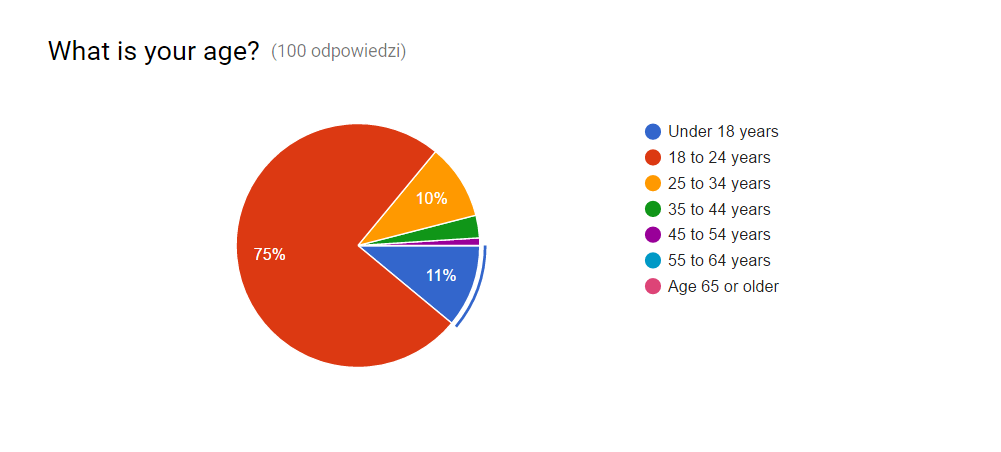
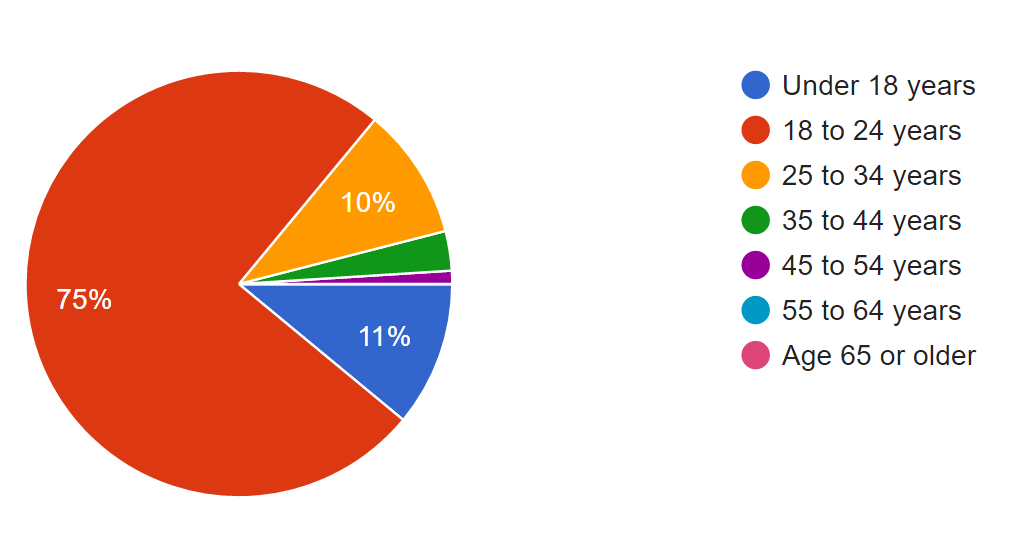
add

Changed region(s): [[0.0, 0.0929, 0.4955, 0.9292], [0.6194, 0.2168, 0.96, 0.6814], [0.7123, 0.1239, 0.96, 0.1858]]

diff --git a/index.html b/index.html
@@ -41,6 +41,9 @@
 			<div class="slides">
 				<section>
 					<h1>Survey Summary</h1>
+					<aside class="notes">
+						The survey includes 26 questions that can be divided into five parts
+					</aside>
 				</section>
 
 				<section>
@@ -49,44 +52,43 @@
 					</section>
 
 					<section style="font-size:45px">
-						<h3>Gender</h3>
-						<img src=gender.png>
+						<h3>What is your gender?</h3>
+						<img style="border: 0;" src=gender.png>
 						<aside class="notes"> The total number of respondents was one hundred people,
 							of which 82% were women. </aside>
 					</section>
 
 					<section style="font-size:45px">
-						<h3>Age</h3>
-						<img src=age.png>
+						<h3>What is your age?</h3>
+						<img style="border: 0;" src=age.png>
 						<aside class="notes">The age of the majority of the participants
 							ranged from 18 to 24 years (75%).</aside>
 					</section>
 
 					<section style="font-size:45px">
-						<h3>Education level</h3>
-						<img src=education.png>
+						<h3>What is your education level?</h3>
+						<img style="border: 0;" src=education.png>
 						<aside class="notes"> Half of the participants has upper secondary education,
 							and more than one third has post-secondary education</aside>
 					</section>
 
 					<section style="font-size:45px">
-						<h3>Type of settlement</h3>
-						<img src=settlement.png>
+						<h3>What type of settlement do you live in?</h3>
+						<img style="border: 0;" src=settlement.png>
 						<aside class="notes"> The vast majority(93%) of the participants lives in town
 							or settlement bigger than town.</aside>
 					</section>
 
 					<section style="font-size:45px">
-						<h3>Country</h3>
-						<img src=country.png>
+						<h3>Where are you from? (Country)</h3>
+						<img style="border: 0;" src=country.png>
 						<aside class="notes"> 91% of the participants are from Poland,
-							8% are from Ukraine and 1% is from Germany.</aside>
+							8% are from Ukraine and 1% is from Germany.
+							A good sample is one that is representative of the population as a whole.
+							Our sample is not that good because some members of the population
+							(like men or people living in villages) are underrepresented in our sample. </aside>
 					</section>
 
-					<section style="font-size:45px">
-						<h3>Area of work</h3>
-						<img src=Area.png>
-					</section>
 				</section>
 
 				<section>
@@ -95,13 +97,15 @@
 					</section>
 
 					<section style="font-size:45px">
-						<img src=internetuse.png>
+						<h3>How often do you use the Internet?</h3>
+						<img style="border: 0;" src=internetuse.png>
 						<aside class="notes">Almost all respondents (98%) use internet often or very often which
 						isn't very surprising taking into account age of our respondents</aside>
 					</section>
 
 					<section style="font-size:45px">
-						<img src=usingfor.png>
+						<h3>What are you using the Internet for?</h3>
+						<img style="border: 0;" src=usingfor.png>
 						<aside class="notes">More than 90% of the respondents uses Internet for
 							social network, email, entertainment and sites with information.
 							A little smaller part of respondents (> 60%) uses internet for shopping,
@@ -110,19 +114,14 @@
 					</section>
 
 					<section style="font-size:45px">
-						<img src=Screenshot_1.png>
-						<aside class="notes">Smart TVs and smart watches aren't really cheap,
-							so what you can see on this diagram isn't surprising.</aside>
+						<h3>Where do you use the Internet?</h3>
+						<img style="border: 0;" src=where.png>
 					</section>
 
 					<section style="font-size:45px">
-						<img src=where.png>
-						<aside class="notes">It's really connected with previous diagram. Computer without internet is useless
-						so...</aside>
-					</section>
-
-					<section style="font-size:45px">
-						<img src=when.png>
+						<h3>When do you use the Internet?</h3>
+						<img style="border: 0;" src=when.png>
+						<aside class="notes"></aside>
 					</section>
 				</section>
 
@@ -132,32 +131,38 @@
 					</section>
 
 					<section style="font-size:45px">
-						<img src=howEmail.png>
+						<h3>How anxious do you feel about using Email?</h3>
+						<img style="border: 0;" src=howEmail.png>
 						<aside class="notes">In general people doesn't feel anxious about using email</aside>
 					</section>
 
 					<section style="font-size:45px">
-						<img src=howSocia.png>
+						<h3>How anxious do you feel about using social networks?</h3>
+						<img style="border: 0;" src=howSocia.png>
 					</section>
 
 					<section style="font-size:45px">
-						<img src=onlineshopping.png>
+						<h3>How anxious do you feel about using online shopping?</h3>
+						<img style="border: 0;" src=onlineshopping.png>
 						<aside class="notes">The majority of the respondents don’t feel anxious
 							about using social networks, email or online shopping. </aside>
 					</section>
 
 					<section style="font-size:45px">
-						<img src=realname.png>
+						<h3>How anxious do you feel about using/posting with your real name?</h3>
+						<img style="border: 0;" src=realname.png>
 					</section>
 
 					<section style="font-size:45px">
-						<img src=controversial.png>
+						<h3>How anxious do you feel about using/posting something that can be controversial?</h3>
+						<img style="border: 0;" src=controversial.png>
 						<aside class="notes">However, almost 20% of the respondents feel very anxious about posting
 							something with their real name or posting something that can be controversial. </aside>
 					</section>
 
 					<section style="font-size:45px">
-						<img src=recorded.png>
+						<h3>Do you feel/think that your Internet activity is being recorded/observed?</h3>
+						<img style="border: 0;" src=recorded.png>
 					</section>
 				</section>
 
@@ -167,27 +172,27 @@
 					</section>
 
 					<section style="font-size:45px">
-						<img src=useRealName.png>
+						<h3>Do you use your real name in the Internet?</h3>
+						<img style="border: 0;" src=useRealName.png>
 					</section>
 
 					<section style="font-size:45px">
-						<img src=useRealPicture.png>
+						<h3>Do you use your real picture in the Internet?</h3>
+						<img style="border: 0;" src=useRealPicture.png>
 						<aside class="notes"> More than a half of the respondents use real name and real picture
 							in the Internet and feel like a part of internet communities.</aside>
 					</section>
 
 					<section style="font-size:45px">
-						<img src=fale.png>
+						<h3>Do you have any fake accounts on websites?</h3>
+						<img style="border: 0;" src=fale.png>
 					</section>
 
 					<section style="font-size:45px">
-						<img src=partOfInternet.png>
+						<h3>How much do you tell about your personal data to people met in the Internet?</h3>
+						<img style="border: 0;" src=personalData.png>
 					</section>
 
-					<section style="font-size:45px">
-						<img src=personalData.png>
-					</section>
-					
 				</section>
 
 				<section>
@@ -196,26 +201,78 @@
 					</section>
 
 					<section style="font-size:45px">
-						<img src=safe.png>
+						<h3>Do you feel safe in the Internet?</h3>
+						<img style="border: 0;" src=safe.png>
 						<aside class="notes">More than 60% of the respondents doesn’t feel safe in the Internet.</aside>
 					</section>
 
 					<section style="font-size:45px">
-						<img src=clean.png>
+						<h3>Do you clean browser history when you use the Internet in public places (for example at a university)?</h3>
+						<img style="border: 0;" src=clean.png>
 					</section>
 
 					<section style="font-size:45px">
-						<img src=add.png>
+						<h3>Do you use any ad blocker?</h3>
+						<img style="border: 0;" src=add.png>
 					</section>
 
 					<section style="font-size:45px">
-						<img src=anoughtofeel.png>
+						<h3>Do you think you know enough about the Internet to feel secure?</h3>
+						<img style="border: 0;" src=anoughtofeel.png>
 					</section>
 
 					<section style="font-size:45px">
-						<img src=changePass.png>
+						<h3>How often do you change your password?</h3>
+						<img style="border: 0;" src=changePass.png>
 					</section>
 				</section>
+				<section>
+					<section>
+						<h1>Conclusions</h1>
+					</section>
+					<section>
+						<h2 style="font-size: 100px">The Internet has become an integral part of everyday life</h2>
+					</section>
+					<section>
+						<h2 style="font-size: 100px">People don't share personal information freely.</h2>
+					</section>
+					<section>
+						<h2 style="font-size: 100px">People don't think that they know enough about the Internet.</h2>
+					</section>
+				</section>
+				<section>
+					<section>
+						<h1>Q&A</h1>
+					</section>
+					<section>
+						<h2 style="font-size: 100px">Do you think that there are insignificant(or unclear) questions in our survey?</h2>
+					</section>
+					<section>
+						<h2 style="font-size: 100px">Why do you think more than one third of the respondents doesn't feel safe in the Internet,
+							but only 18% change password once a month?</h2>
+					</section>
+					<section>
+						<h2 style="font-size: 100px">What do you think about 5 point Likert-scale used in our survey? Is 5 points enough for this type of questions?</h2>
+					</section>
+					<section>
+						<h2 style="font-size: 100px">What can convince you to turn off adblocker on some pages?</h2>
+					</section>
+				</section>
+				<section>
+					<h2>References</h2>
+					<ul style="font-size: 35px">
+						<li>Joiner, R., Gavin, J., Brosnan, M., Cromby, J., Gregory, H., Guiller, J., Maras, P.
+							and Moon, A.(2013).<br>
+							Comparing First and Second Generation Digital Natives’ Internet Use,
+							Internet Anxiety,<br> and Internet Identification. Cyberpsychology, Behavior,
+							and Social Networking.<br>
+							Retrieved from <a href="https://www.researchgate.net/publication/236910772_Co..'_Internet_Use_Internet_Anxiety_and_Internet_Identification">here</a>.</li>
+						<li>Olejniczak, K., Kuzhel, O., Kubicki, D. (Interviewers) and
+							Citizens of Krakow (Interviewee). (2016). Survey [Survey transcript].<br>
+							Retrieved from google survey <a href="https://docs.google.com/forms/d/1xlVDImukfItNIvdoJssWLDzTXl72TlEuQVZfVS-5FLU/edit#responses">site</a>.</li>
+					</ul>
+				</section>
+				<section data-background="https://media.giphy.com/media/KINAUcarXNxWE/giphy.gif" ></section>
 
 			</div>
 
